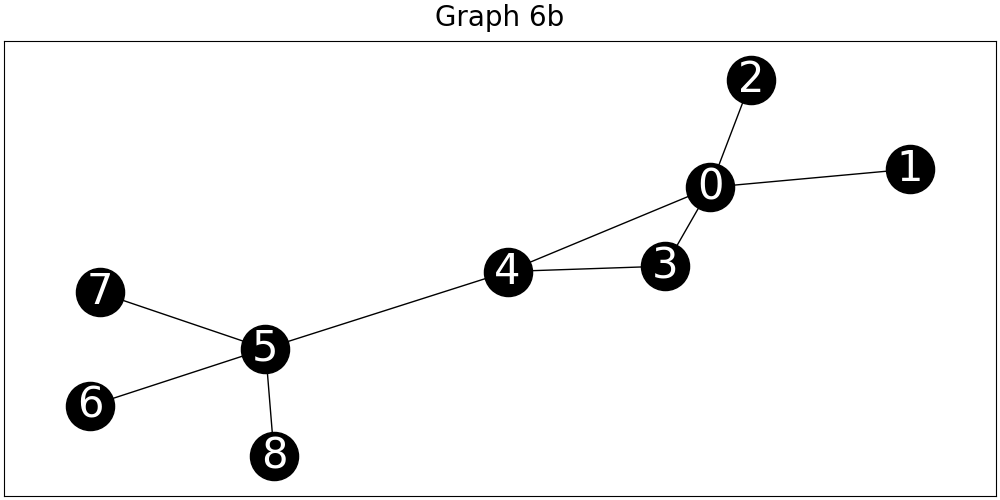
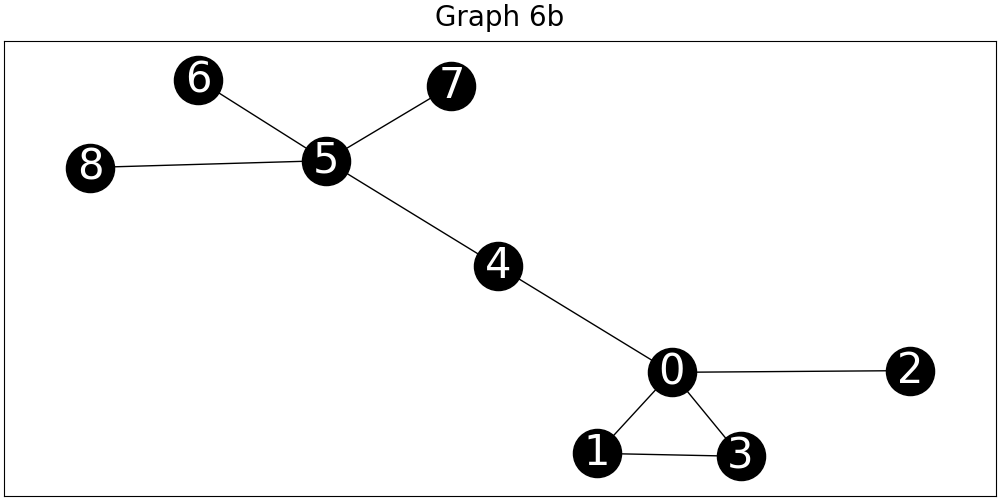
updates

diff --git a/cvf-analysis/plot_graphs.py b/cvf-analysis/plot_graphs.py
@@ -7,14 +7,14 @@ graph_names = [
     # "graph_2",
     # "graph_3",
     # "graph_6",
-    # "graph_6b",
+    "graph_6b",
     # "graph_7",
     # "graph_8",
-    "graph_4",
-    "graph_5",
+    # "graph_4",
+    # "graph_5",
 ]
 
-planar = True
+planar = False
 fontsize = 20
 
 for gname in graph_names:
